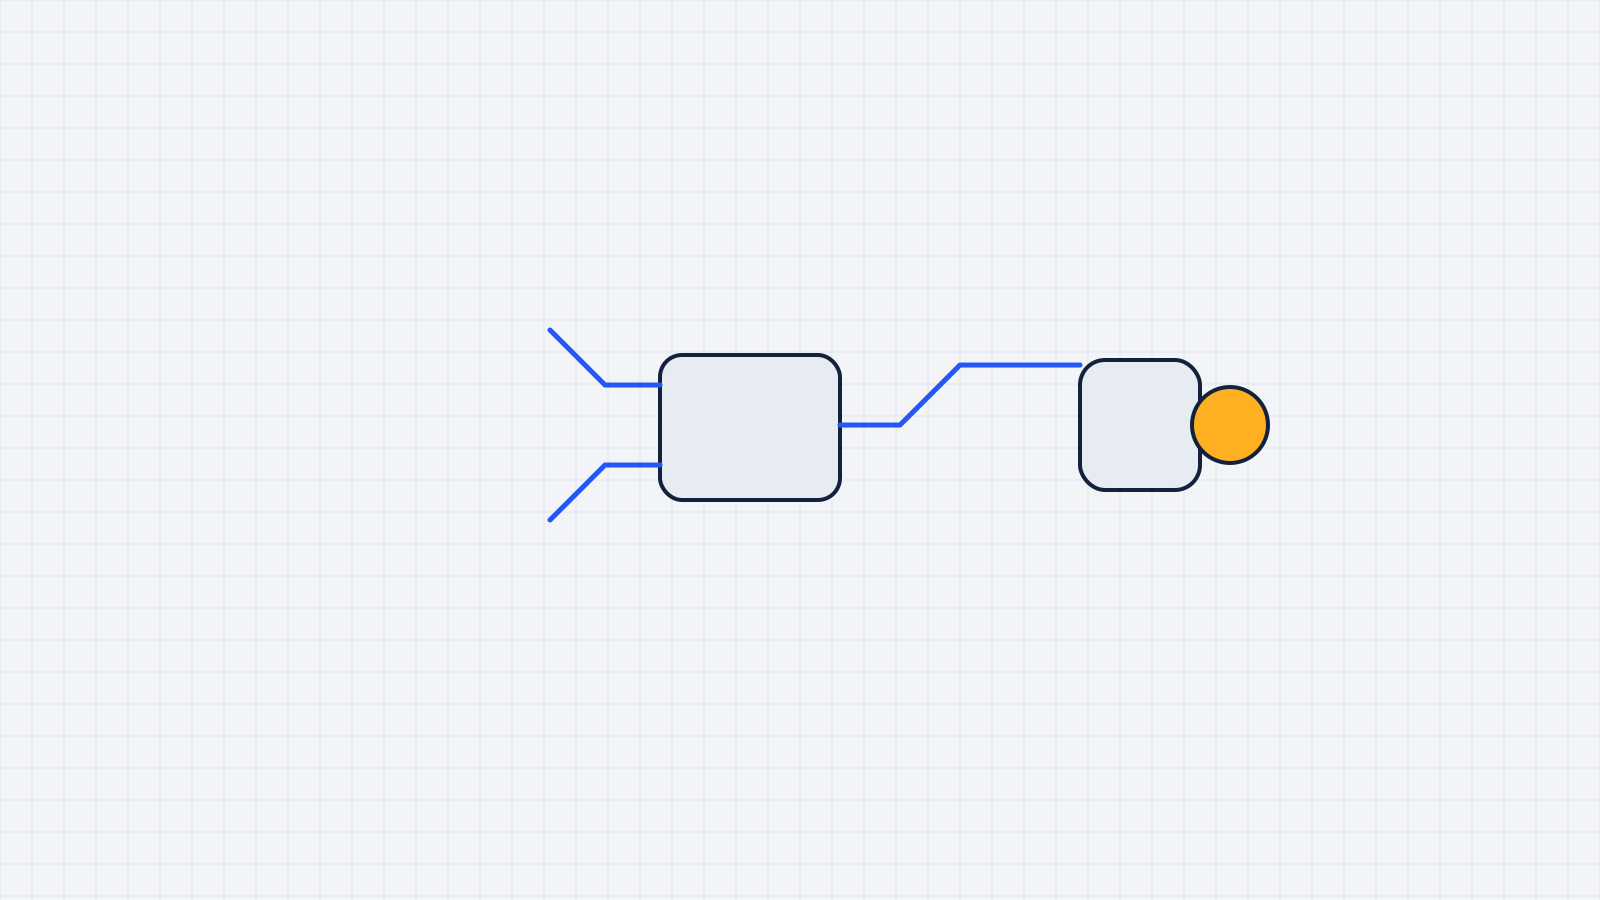
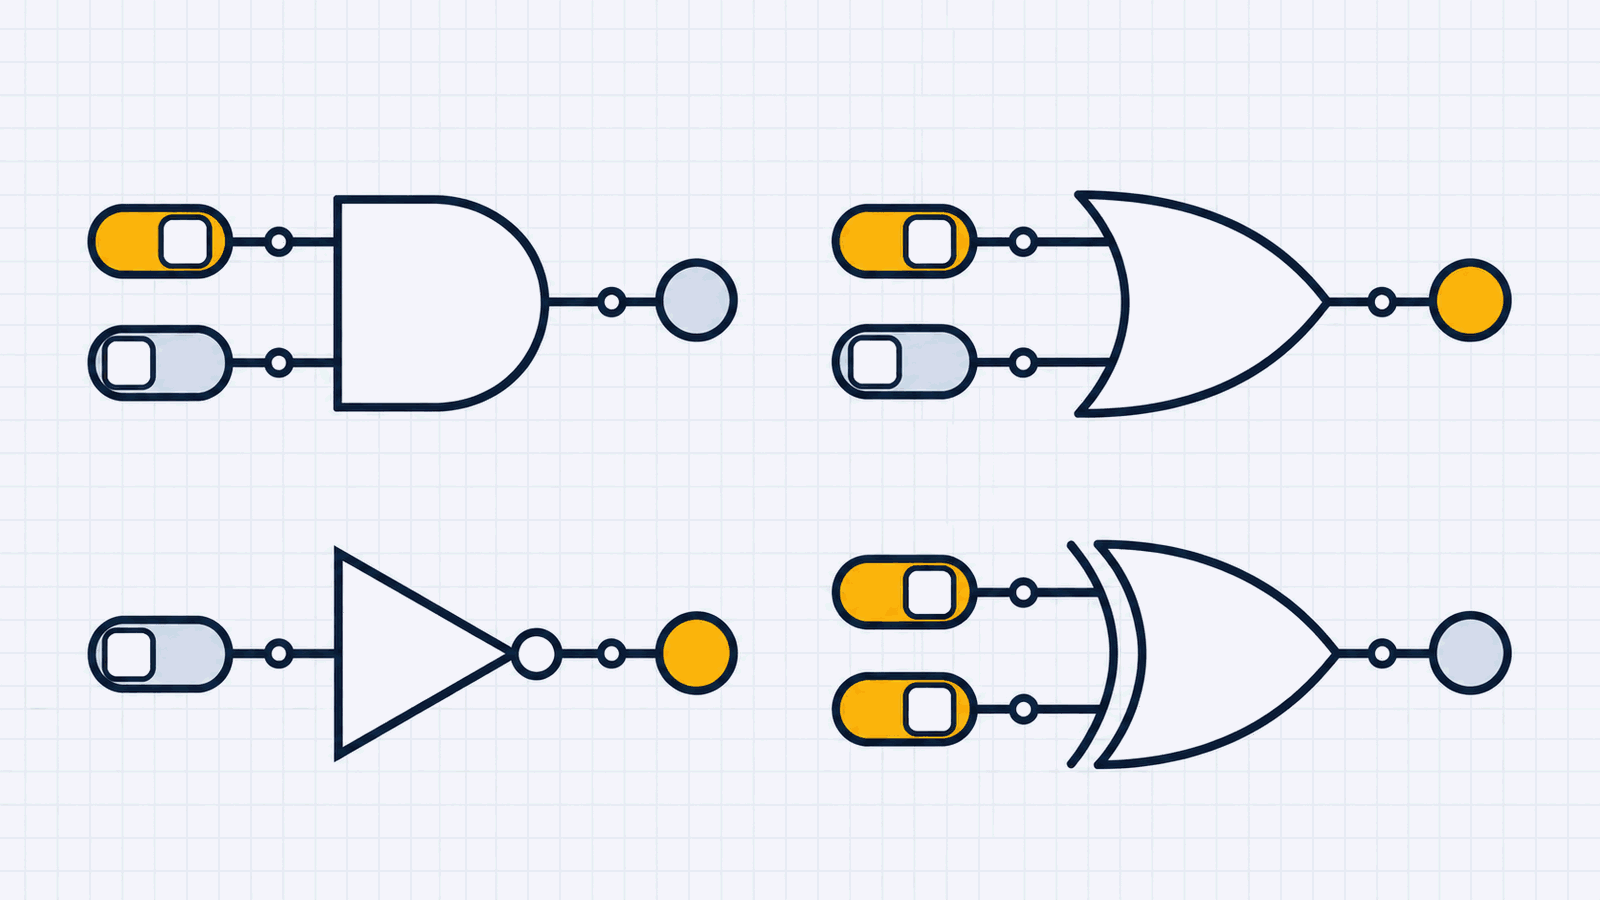
Add files via upload

diff --git a/src/content/lessons/a03-logic-gates.ts b/src/content/lessons/a03-logic-gates.ts
@@ -2,13 +2,14 @@ import { lessonSchema, type Lesson } from "../schema";
 
 /**
  * A03。状态为 draft：没有真实学习者试学记录，来源尚未补齐。
- * 课头插图暂不使用（现有的 lesson-a03 图看不出门的形状，等重出）。
+ * 课头插图：GPT 重出的四种门符号图（AND、OR、NOT、XOR 的传统形状）。
  */
 export const a03: Lesson = lessonSchema.parse({
   id: "a03-logic-gates",
   track: "a",
   unit: "a1",
   title: "逻辑门：AND、OR、NOT、XOR",
+  art: "lesson-a03-logic-gates.png",
   objectives: [
     "能说出 AND、OR、NOT、XOR 分别在什么情况下输出 1",
     "能读懂两输入逻辑门的真值表",

diff --git a/src/content/lessons/a04-adder.ts b/src/content/lessons/a04-adder.ts
@@ -6,6 +6,7 @@ export const a04: Lesson = lessonSchema.parse({
   track: "a",
   unit: "a1",
   title: "用门搭一个加法器",
+  art: "lesson-a04-adder.png",
   objectives: [
     "能写出两个 1 位二进制数相加的四种结果，并说明什么时候需要进位",
     "能说出半加器里「和」与「进位」分别由哪种逻辑门产生",

diff --git a/docs/STATUS.md b/docs/STATUS.md
@@ -7,9 +7,9 @@
 - **课时播放器**：互动、检查、迁移题完成前不能继续；答错 2 次可看答案；刷新后从上次步骤续学；按顺序的下一课还没做时，推荐目录里之后第一个已开放的课。
 - **课时数据校验（Zod）**：缺互动 / 检查题 / 迁移题、错误选项没有诊断提示、互动挑战没给目标、非草稿却没有来源和试学证据，都会校验失败。
 - **A01 二进制**（8 分钟）：位开关自由练习 + 3 目标挑战；3 道选择题；迁移题。
-- **A02 十六进制与文字编码**（9 分钟，新）：十六进制是二进制的短写法（1 位对应 4 位）；十六进制换十进制；#RRGGBB 颜色；ASCII（A=65、a=97）与 Unicode 的区别（简化处有 callout）；复用位开关做挑战（拨出 10、65、97）；3 道选择题；迁移题（#00FF80 的蓝色分量 0x80 = 128）。没有新增互动组件，也没有改 schema。同时把迁移题"无效输入"的提示从"请输入一个整数，例如 128。"改成"请输入一个整数，只写数字。"——原提示里的示例数字正好是 A02 迁移题的答案，会泄露答案。
-- **A03 逻辑门**（9 分钟，新）：AND / OR / NOT / XOR 讲解；逻辑门互动（拨输入、看符号和真值表，当前行标出）；**神秘门挑战**（NOT、OR、XOR）：必须把所有输入都试一遍才能猜，猜错时指出一条自己观察到的、和猜测矛盾的行；3 道选择题；迁移题（两输入逻辑门共有 2^4 = 16 种）。
-- **A04 用门搭一个加法器**（10 分钟，新）：二进制加法四种情况与进位；"和 = XOR、进位 = AND"的半加器；半加器自由练习；**搭电路挑战**：自己给「和」和「进位」各选一个门（AND / OR / XOR），点"测试电路"用 4 种输入检查，指出第一个不对的输入以及是哪一位错了（9 种组合里只有 XOR + AND 正确）；3 道选择题；迁移题（两个 8 位数相加最多需要 9 位）。学完 A03 + A04 会获得真实的「守门人」徽章。
+- **A02 十六进制与文字编码**（9 分钟，新）：十六进制是二进制的短写法（1 位对应 4 位）；十六进制换十进制；#RRGGBB 颜色；ASCII（A=65、a=97）与 Unicode 的区别（简化处有 callout）；复用位开关做挑战（拨出 10、65、97）；3 道选择题；迁移题（#00FF80 的蓝色分量 0x80 = 128）。课头插图已接入（`lesson-a02-hex-encoding.png`，GPT 出图）。没有新增互动组件，也没有改 schema。同时把迁移题"无效输入"的提示从"请输入一个整数，例如 128。"改成"请输入一个整数，只写数字。"——原提示里的示例数字正好是 A02 迁移题的答案，会泄露答案。
+- **A03 逻辑门**（9 分钟，新）：AND / OR / NOT / XOR 讲解；逻辑门互动（拨输入、看符号和真值表，当前行标出）；**神秘门挑战**（NOT、OR、XOR）：必须把所有输入都试一遍才能猜，猜错时指出一条自己观察到的、和猜测矛盾的行；3 道选择题；迁移题（两输入逻辑门共有 2^4 = 16 种）。课头插图已用 GPT 重出并接入（四种门的传统形状）。
+- **A04 用门搭一个加法器**（10 分钟，新）：二进制加法四种情况与进位；"和 = XOR、进位 = AND"的半加器；半加器自由练习；**搭电路挑战**：自己给「和」和「进位」各选一个门（AND / OR / XOR），点"测试电路"用 4 种输入检查，指出第一个不对的输入以及是哪一位错了（9 种组合里只有 XOR + AND 正确）；3 道选择题；迁移题（两个 8 位数相加最多需要 9 位）。学完 A03 + A04 会获得真实的「守门人」徽章。课头插图已用 GPT 出图并接入（半加器，画的是 1 + 1 = 10）。
 - **美术**：首页主视觉、路线徽记 ×5、N 图标、空状态、404、8 个徽章（按真实完成记录点亮，课程未开放的如实标注）。详见 `public/art/README.md`。
 
 ## 验证情况
@@ -19,7 +19,7 @@
 
 **A02 接入只在 AI 的沙盒里验证过（用真的 zod v4 校验，但不是真 vitest），需要你/GitHub 再跑一遍：**
 - 全部 9 个测试文件 76 个测试通过（含新增 `tests/a02.test.ts`、更新后的 `content.test.ts`）。测试用的是一个极简的 vitest 替身，**不是真 vitest**。
-- 浏览器冒烟测试：在 Chromium 里对 esbuild 打包版跑完 A01 → A02 → A03 → A04 全流程，151 项全部通过、无 JS 报错（`smoke.mjs` 已更新：A01 之后的下一课改为 A02，新增 A02 全流程，含"无效输入提示不泄露答案"）。
+- 浏览器冒烟测试：在 Chromium 里对 esbuild 打包版跑完 A01 → A02 → A03 → A04 全流程，154 项全部通过、无 JS 报错（`smoke.mjs` 已更新：A01 之后的下一课改为 A02，新增 A02 全流程，含"无效输入提示不泄露答案"）。
 - `src/content`、`src/grading` 的 TypeScript 严格检查通过；`tests/a02.test.ts` 只有一个错误：沙盒没有 vitest 的类型声明。
 - `npm run build`、`npm run lint`、真正的 `npm test` 仍没有在 A02 版本上跑过。
 
@@ -32,7 +32,6 @@
 ## 没有做 / 没有验证
 - **没有真实学习者试学过。A01 和 A03 都是"草稿"，来源列表为空。**
 - 没在 Safari / Firefox / 真机手机上看过。
-- A03 不使用课头插图：现有的 `lesson-a03-logic-gates.png` 看不出门的形状，等重出。
 - 无 PWA、夜间模式；吉祥物还没用在界面里。
 
 ## 与蓝图的差异（有意为之）
@@ -46,4 +45,4 @@
 1. 推送新版到 GitHub，看 Actions 是否变绿；本机重跑 `npm test`、`npm run build`、`npm run lint`，告诉 AI 结果。
 2. 找 1 到 3 位朋友在手机上学 A01、A03、A04，记录卡点。
 3. 补 A01、A03、A04 的权威来源；试学后才可把状态改为 `pilot`。
-4. 下一步：继续单元 A2「电脑内部」（A05 CPU：取指、译码、执行）。A02 目前没有课头插图。
+4. 下一步：继续单元 A2「电脑内部」（A05 CPU：取指、译码、执行）。

diff --git a/public/art/README.md b/public/art/README.md
@@ -7,6 +7,9 @@
 | --- | --- |
 | `hero-home-1600x900.png` | 首页主视觉 |
 | `lesson-a01-bits.png` | A01 课头插图（课时数据里的 `art` 字段） |
+| `lesson-a02-hex-encoding.png` | A02 课头插图（8 个开关分成两组、每组 4 位）。GPT 出图后压缩到 1600×900、64 色，约 55KB |
+| `lesson-a03-logic-gates.png` | A03 课头插图（AND、OR、NOT、XOR 四种门的传统形状，带开关和灯）。已用 GPT 重出，替换了看不出门形状的旧图，约 79KB |
+| `lesson-a04-adder.png` | A04 课头插图（半加器：XOR 出「和」、AND 出「进位」，画的是 1 + 1 = 10）。约 62KB |
 | `empty-no-projects.png` | 作品页空状态 |
 | `error-404.png` | 找不到页面 |
 | `badge-*.png`（8 张，已去掉背景） | 「我的」页徽章，按真实完成记录点亮 |
@@ -14,7 +17,7 @@
 | `app-icon-512.png`、`app-icon-180.png`（N 图标，已去掉圆角外的底） | 180 用作手机「添加到主屏幕」图标；512 留给 Phase 8 的 PWA |
 
 ## 已有，等对应功能做出来再接入
-- 课头插图：`lesson-a03/a05/a06/a12/a13/a14/a16`、`lesson-b10`、`lesson-c05/c11/c12`、`lesson-d01/d10`、`lesson-e01`。课时写好后，在课时数据里加 `art: "文件名.png"` 即可。
+- 课头插图：`lesson-a05/a06/a12/a13/a14/a16`、`lesson-b10`、`lesson-c05/c11/c12`、`lesson-d01/d10`、`lesson-e01`。课时写好后，在课时数据里加 `art: "文件名.png"` 即可。
 - `empty-no-progress.png`、`error-offline.png`：离线提示（Phase 8 的 PWA）和学习记录为空的场景。
 - `pathmap-nodes.png`：路线节点图标集（目前路线图用代码画的 SVG，更清晰，暂不替换）。
 - `pattern-trace-tile.png`、`og-1200x630.png`：背景纹理与分享图（分享图需要公开域名后才能用）。
@@ -24,6 +27,5 @@
 `docs/art-source/` 里放着 1254px 的吉祥物设定图 `mascot-byte-sheet.png` 和 1024px 的 `app-icon-1024.png`，作为存档，不放进网站。
 
 ## 仍需处理
-1. `lesson-a03-logic-gates.png`：看不出三种逻辑门的形状，接入 A03 前建议重出。
-2. 课头插图里的主体偏小、留白很多，作为页头可用，但不够有力；新出的路线徽记和吉祥物质量明显更好，可作为后续出图的风格标杆。
-3. 吉祥物 Byte 还没有用在界面里（有 6 个姿势可用于空状态、完成提示）。
+1. 课头插图里的主体偏小、留白很多，作为页头可用，但不够有力；新出的路线徽记和吉祥物质量明显更好，可作为后续出图的风格标杆。
+2. 吉祥物 Byte 还没有用在界面里（有 6 个姿势可用于空状态、完成提示）。
